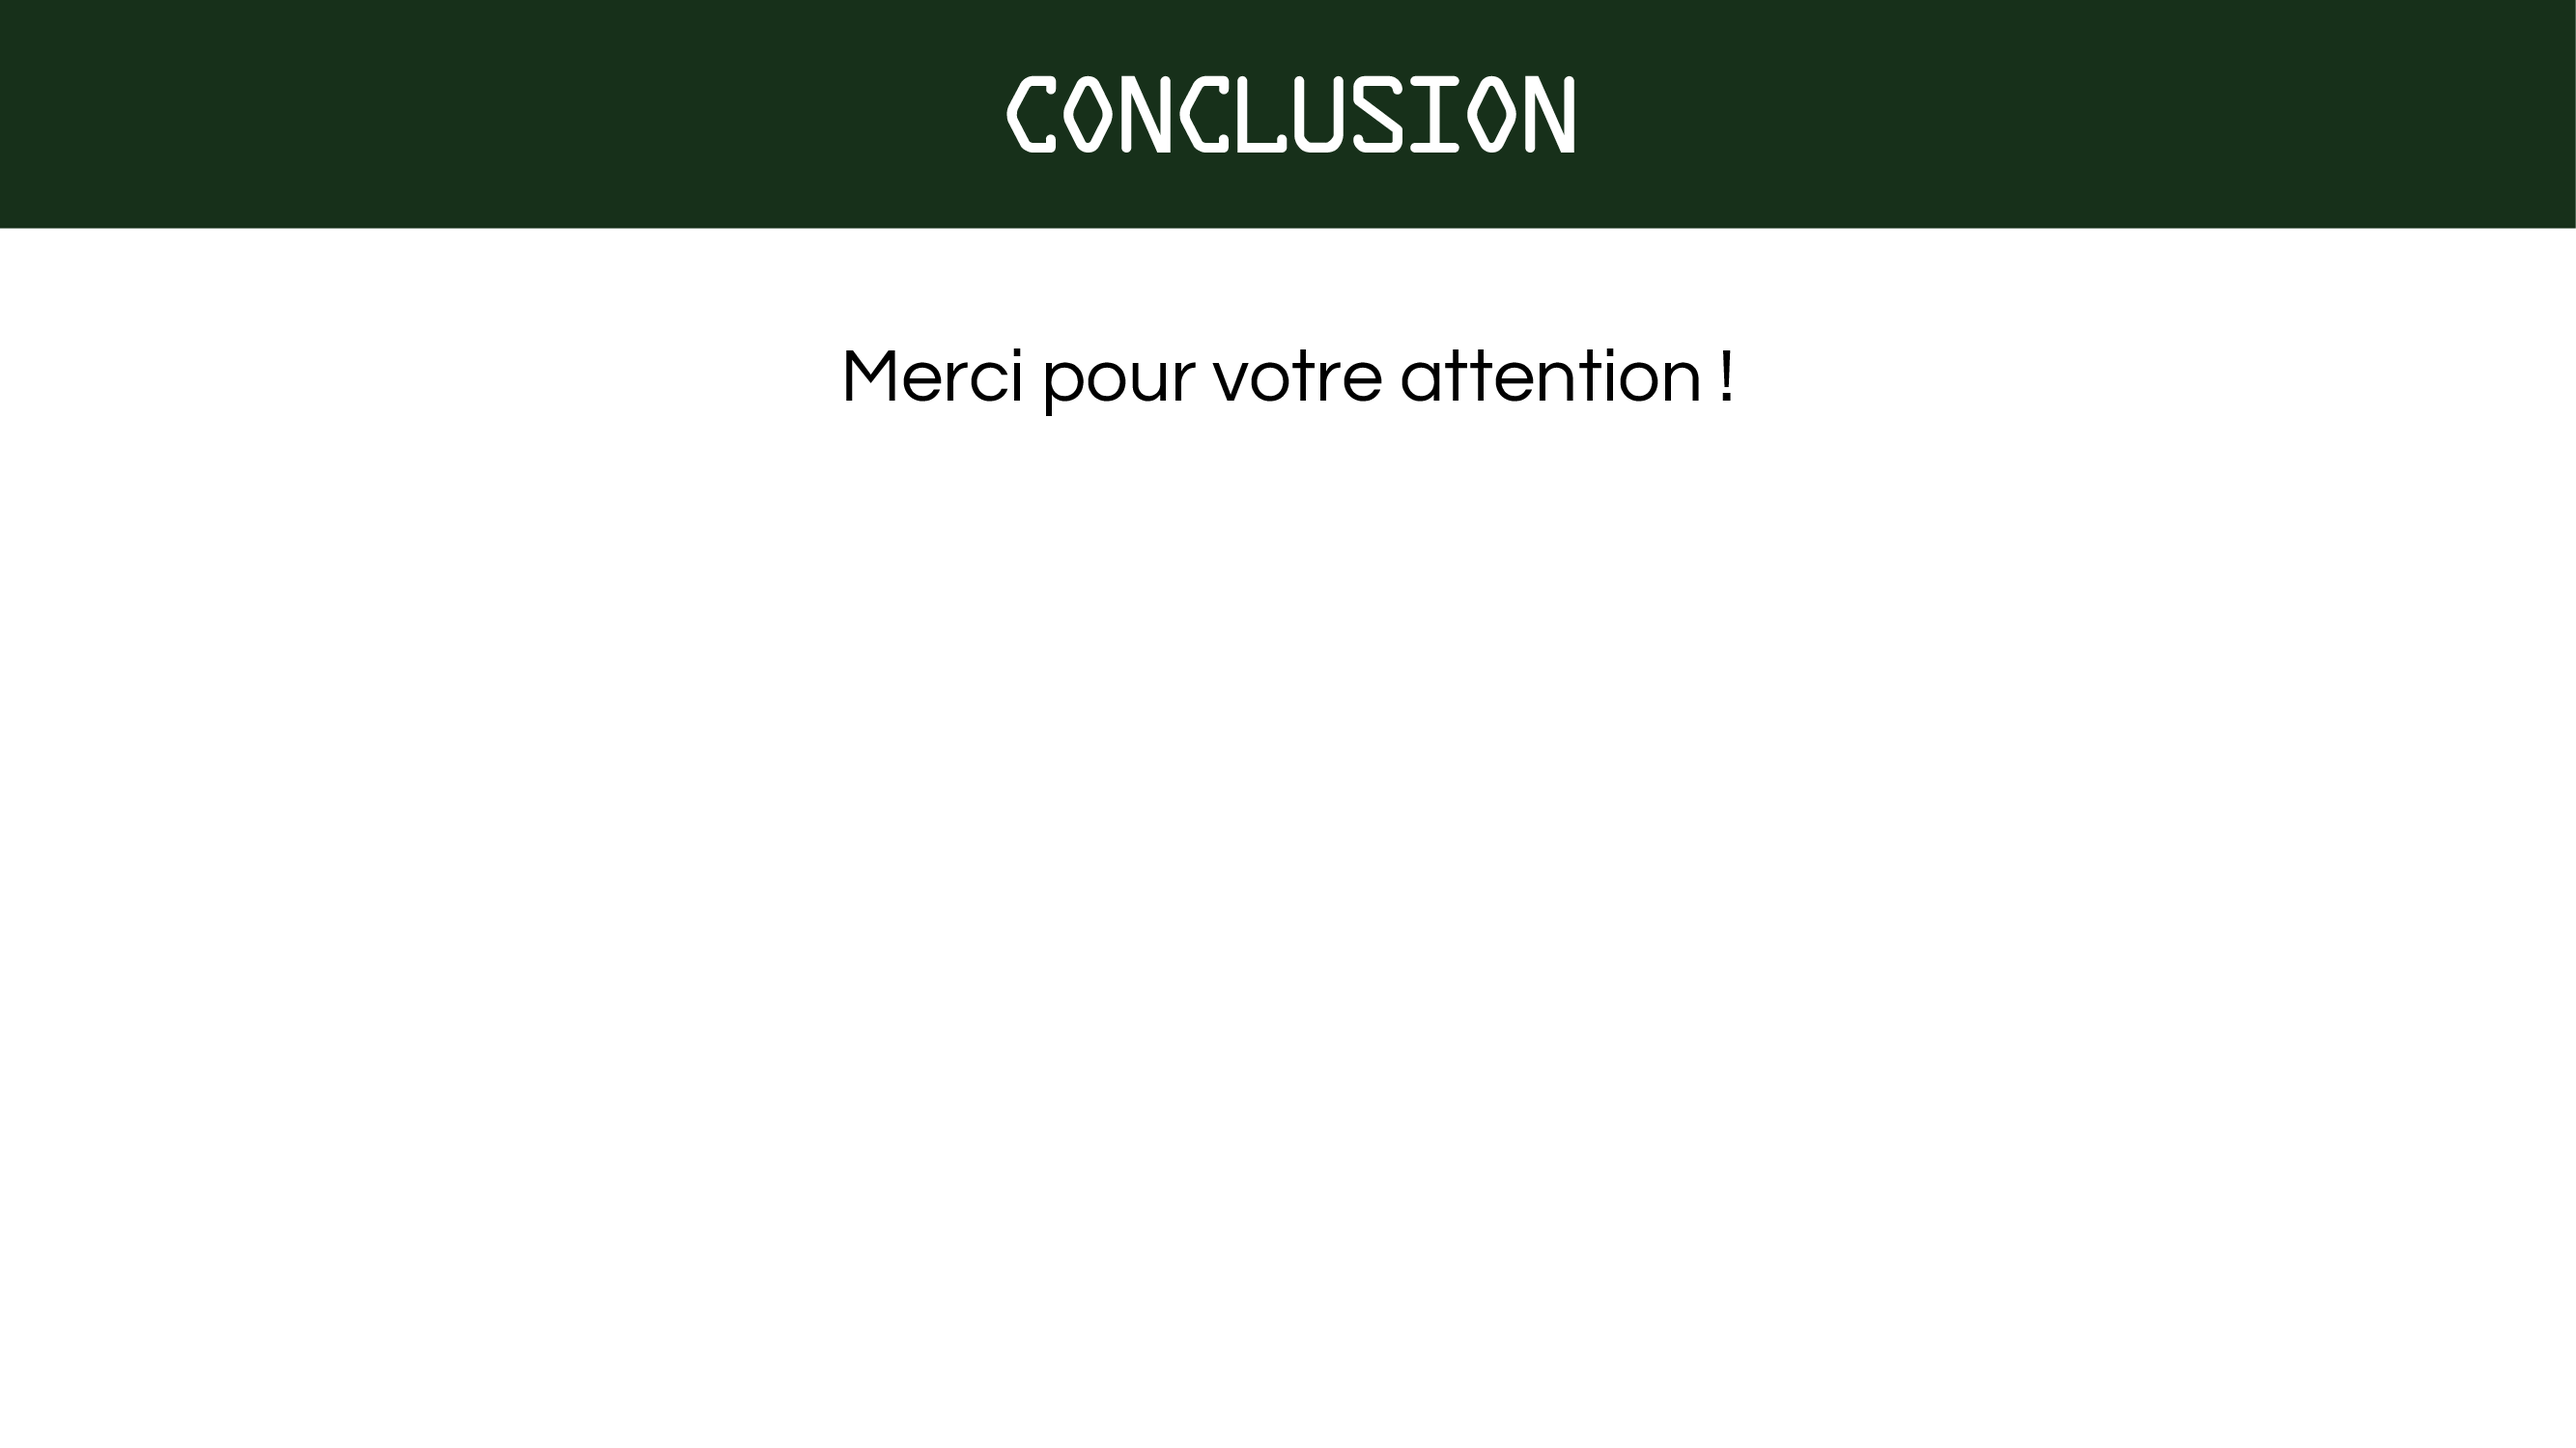
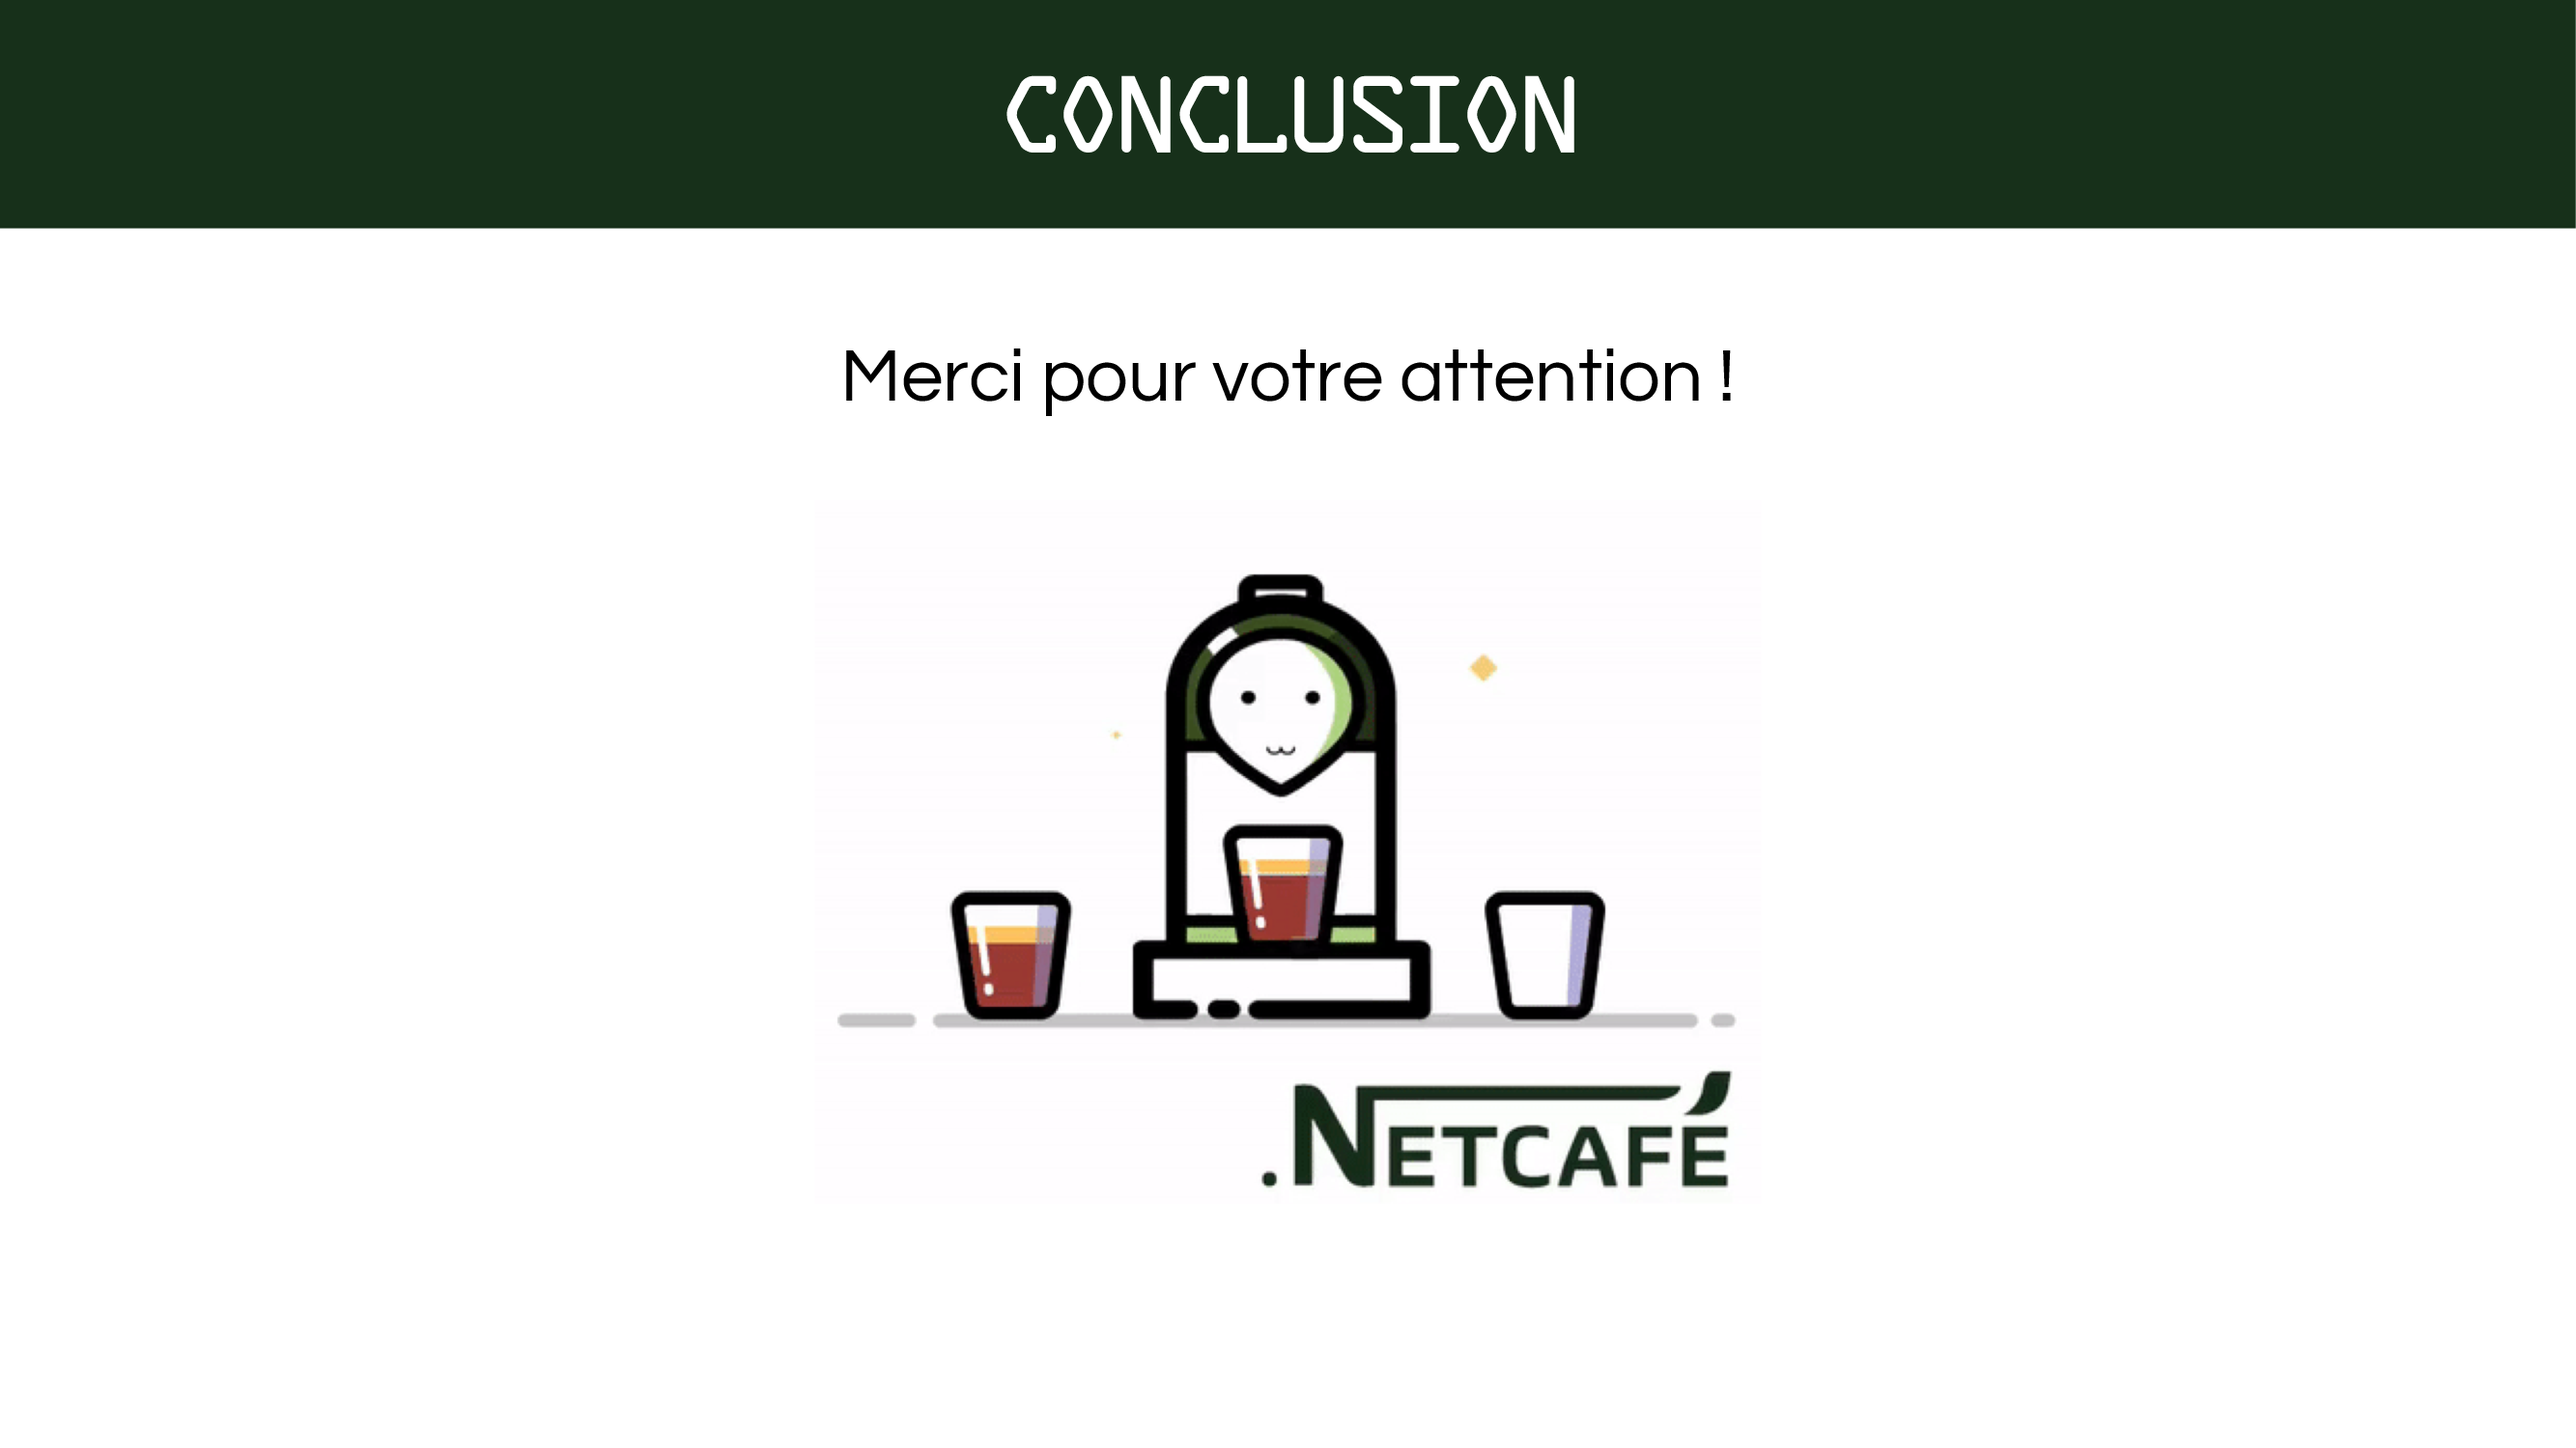
Présentation finale

Changed region(s): [[0.3423, 0.3987, 0.6847, 0.828]]

diff --git a/index.html b/index.html
@@ -122,8 +122,8 @@
             <img class="mySlide" src="img/Slide8.png" alt="" />
           </div>
           <div class="carousel-item myCarousel-item">
-            <img class="mySlide slide9" src="img/Slide9.png" alt="" />
-            <img class="monstyle" src="img/Slide2.png" />
+            <img class="mySlide" src="img/Slide9Bis.png" alt="" />
+            <img class="coffee" src="img/coffeeNet.gif" />
           </div>
           <!-- Icon fullscreen -->
           <img class="fullscreen-icon" src="img/arrows-fullscreen.svg" alt="" />

diff --git a/css/style.css b/css/style.css
@@ -86,15 +86,12 @@
   position: relative;
 }
 
-.slide9 {
-}
-
-.monstyle {
-  width: 30%;
+.coffee {
+  width: 35%;
   display: block;
   margin: auto;
   position: absolute;
-  top: 35%;
+  top: 33%;
   left: 50%;
   transform: translate(-50%);
 }
